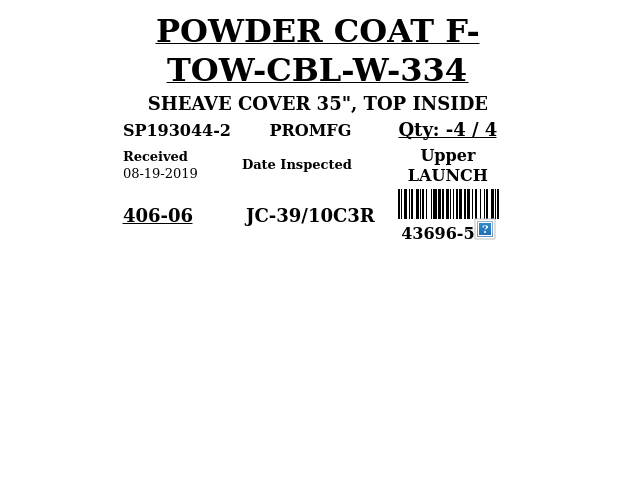
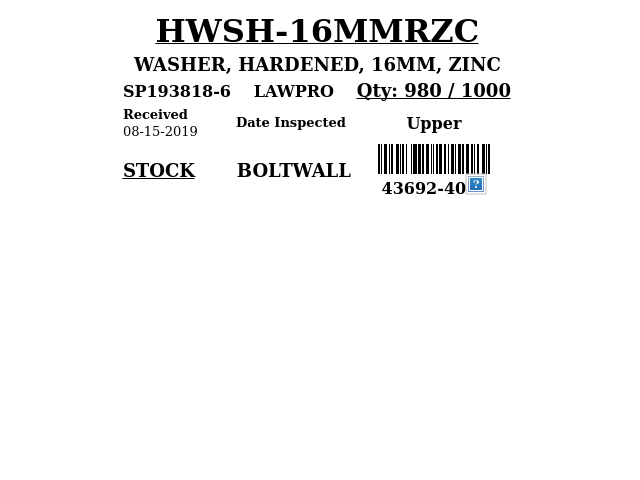
push to digital ocean

diff --git a/home/ss-print/htmlfile.html b/home/ss-print/htmlfile.html
@@ -4,26 +4,26 @@
         <tr><tr style="padding-top: 50px;padding-bottom: 50px;">
                  <td><center><table style='width:400px;font-family:arial;' bgcolor='#FFFFFF'>
 	<tr>
-		<th colspan='3' align='center' height='25px'><b><font size='6'><u>HWSH-16MMRZC</u></font></b></th>
+		<th colspan='3' align='center' height='25px'><b><font size='6'><u>POWDER COAT F-TOW-CBL-W-334</u></font></b></th>
 	</tr>
 	<tr>
-		<td colspan='3' align='center' height='22px'><font size='4'><b>WASHER, HARDENED, 16MM, ZINC</b></font></td>
+		<td colspan='3' align='center' height='22px'><font size='4'><b>SHEAVE COVER 35", TOP INSIDE</b></font></td>
 	</tr>
 	<tr height='20px'>
-		<td height='20px'><font size='3'><b>SP193818-6</b></font></td>
-		<td align='center'><font size='3'><b>LAWPRO</b></font></td>
-		<td align='center'><font size='4'><b><u>Qty: 980 / 1000</u></b></font></td>
+		<td height='20px'><font size='3'><b>SP193044-2</b></font></td>
+		<td align='center'><font size='3'><b>PROMFG</b></font></td>
+		<td align='center'><font size='4'><b><u>Qty: -4 / 4</u></b></font></td>
 	</tr>
 	<tr height='20px'>
-		<td><font size='2'><b>Received</b><br>08-15-2019</font></td>
+		<td><font size='2'><b>Received</b><br>08-19-2019</font></td>
 		<td><font size='2'><b>Date Inspected<br></b></font></td>
-		<td align='center'><b>Upper<br><font size='3'></font></td>
+		<td align='center'><b>Upper<br><font size='3'>LAUNCH</font></td>
 		<td align='center'</td>
 	</tr>
 	<tr>
-		<td><font size='4'><b><u>STOCK</u></u></b></font></td>
-		<td align='center'><font size='4'><b>BOLTWALL</td>
-		<td align='center' valign='bottom'><img src="http://www.keepautomation.com/online_barcode_generator/linear.aspx?DATA=43692-40&UOM=0&X=1&Y=30&ROTATE=0&RESOLUTION=70&FORMAT=png&LEFT-MARGIN=0&RIGHT-MARGIN=0&SHOW-TEXT=false&TEXT-FONT=Arial%7c12%7cRegular""/><br><b>43692-40<img src="/i/clear2x2.gif" onload="javascript:if(typeof QBU=='undefined'){QBU={};setTimeout(function(){$('#recordNavBar').remove();}, 100)}"></b></td>
+		<td><font size='4'><b><u>406-06</u></b></font></td>
+		<td align='center'><font size='4'><b>JC-39/10C3R</td>
+		<td align='center' valign='bottom'><img src="http://www.keepautomation.com/online_barcode_generator/linear.aspx?DATA=43696-5&UOM=0&X=1&Y=30&ROTATE=0&RESOLUTION=70&FORMAT=png&LEFT-MARGIN=0&RIGHT-MARGIN=0&SHOW-TEXT=false&TEXT-FONT=Arial%7c12%7cRegular""/><br><b>43696-5<img src="/i/clear2x2.gif" onload="javascript:if(typeof QBU=='undefined'){QBU={};setTimeout(function(){$('#recordNavBar').remove();}, 100)}"></b></td>
 	</tr>
 </table></center></td>
                   </tr>

diff --git a/home/ss-print/file.php b/home/ss-print/file.php
@@ -50,10 +50,12 @@ function createHTML($xmlArr) {
 // echo "WORK";
 // die();
 $br = new Browsershot();
-$_POST['rids'] = "546048"; //test call without webhook
+//$_POST['rids'] = "546048"; //test call without webhook
 $counter = 0;
 $allData = array();
 if(isset($_POST['rids'])){
+  echo "I got Data";
+  echo "<br>";
   $string = $_POST['rids'];
   $explodedData = explode(",",$string);
   $totalRids =  count($explodedData);

diff --git a/testfile.php b/testfile.php
@@ -3,6 +3,7 @@
 $_POST['rids'] = "546065"; //test call without webhook
 
 echo "FROM Digital Ocean";
+echo "<br>";
 
 $url = "http://157.245.103.85/curl_test/home/ss-print/file.php";
 $cURL = curl_init($url);
